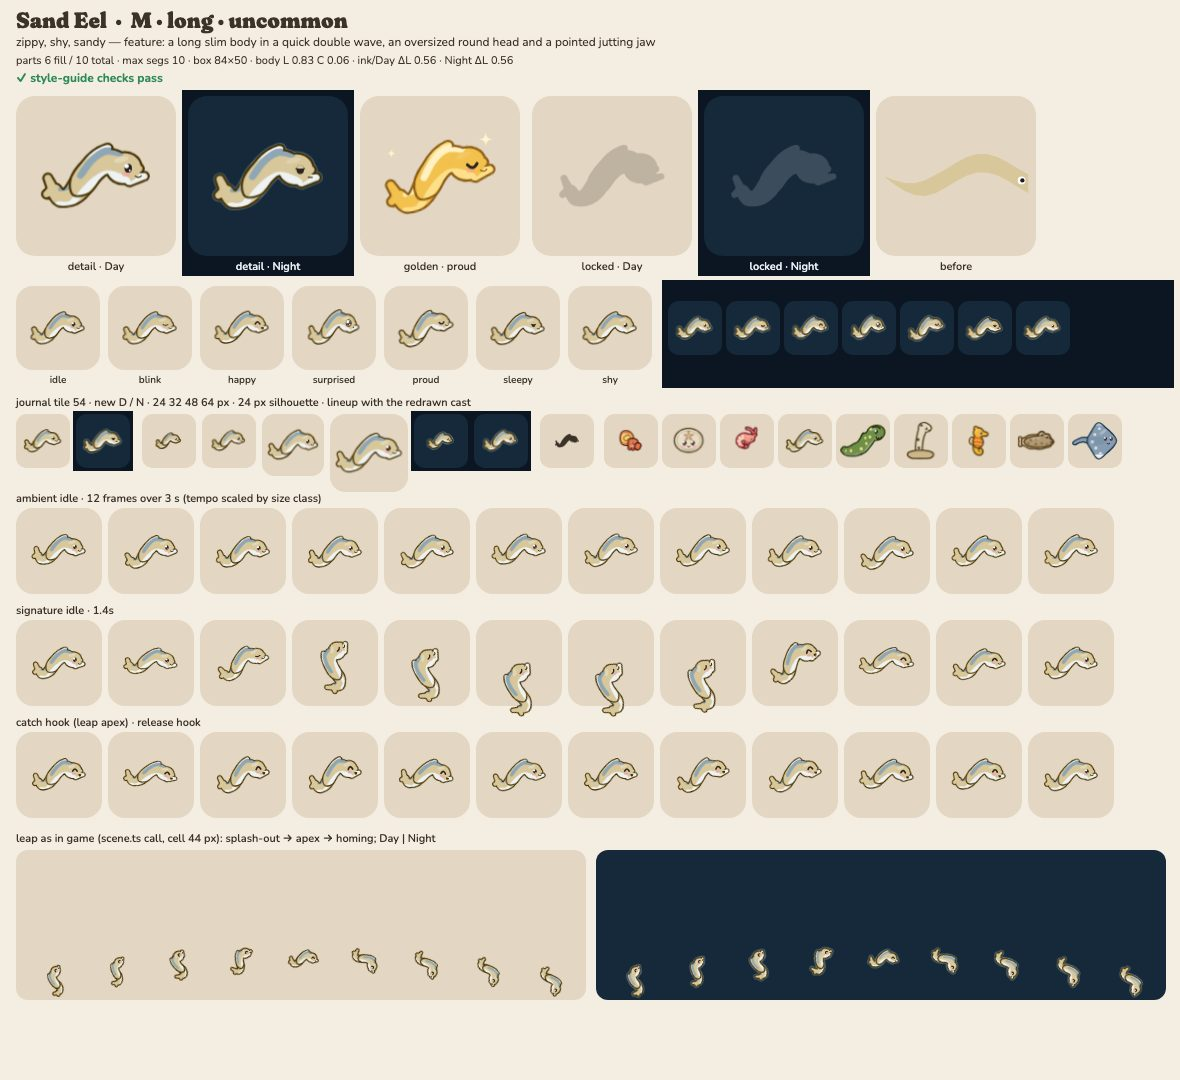
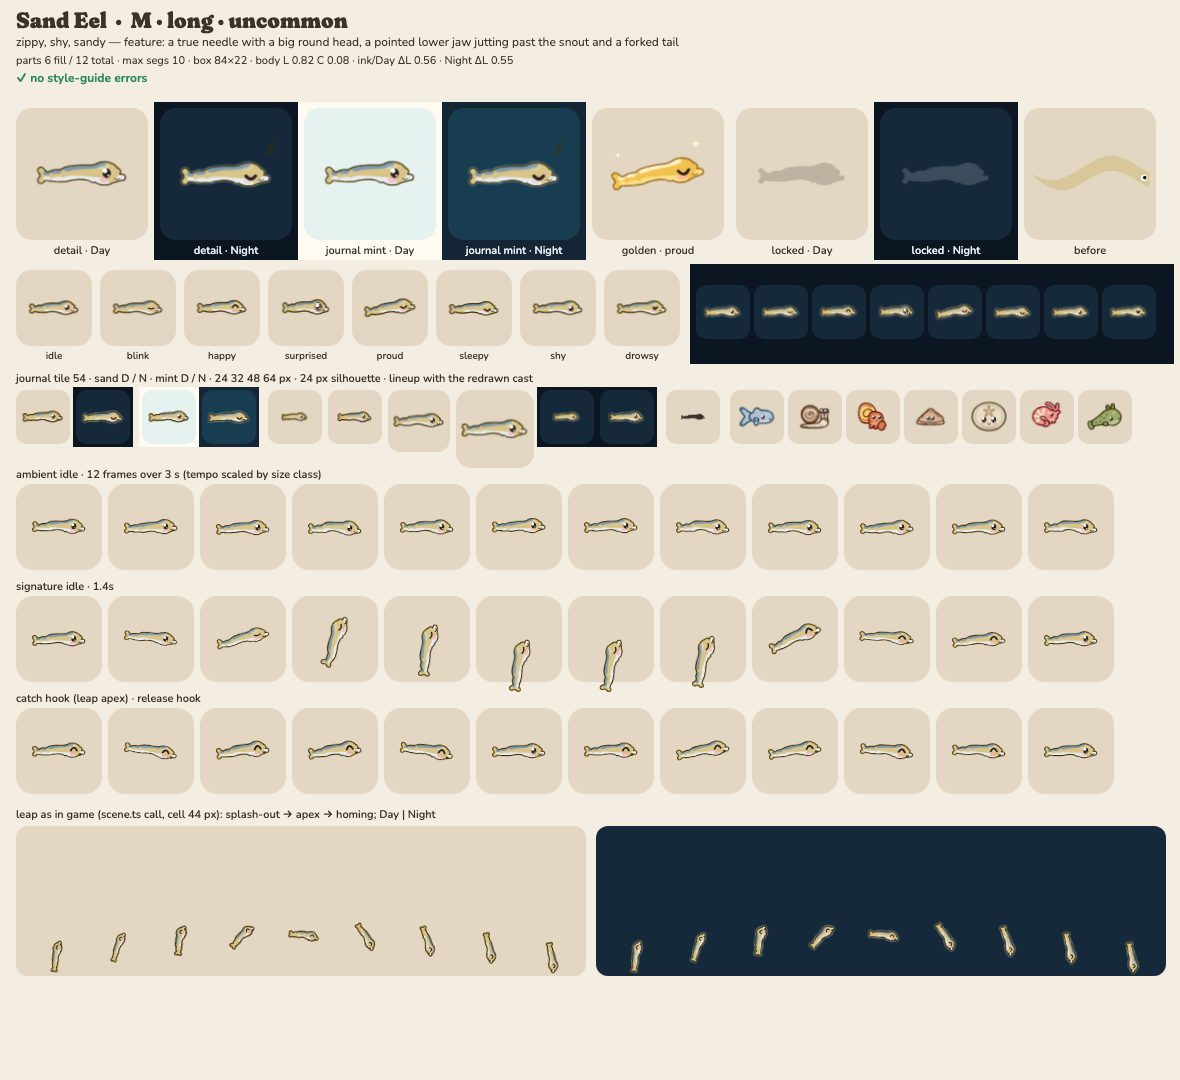
render: sandeel redo — a true needle with a jutting jaw (ADR 0011)
CRITIQUE-1 C. Level 4:1 needle (box 84x22), big round head 30 % of length, lower jaw juts past the snout, tiny fork; sand #D9C489 (C 0.08) over a silver belly #E8ECEF with a steel back stripe. Three seamless segments carry a travelling wave; signature: tail-first dive into the floor and pop back up. Eye 9.4 u (floor 8.9). Lint clean.

diff --git a/src/render/art/species/sandeel.ts b/src/render/art/species/sandeel.ts
@@ -1,64 +1,86 @@
 /**
- * Sand Eel — LONG class (profile). Silhouette: a long slim body in a quick double wave ("~~"),
- * an oversized round head and a pointed, jutting lower jaw, a tiny forked tail (R10: the wavy needle
- * and the jaw). Slimmer and wavier than the moray, horizontal unlike the garden eel.
+ * Sand Eel — LONG class (profile, level). Silhouette: a true needle (≈ 4 : 1) with a big round head
+ * (30 % of the length), a pointed lower jaw that juts past the snout and a tiny forked tail; a low
+ * double wave travels down the body (R10: the needle and the jaw). Silver belly under sand.
  * Personality: zippy, shy, sandy. Signature: dives tail-first into the tile floor and pops back up.
+ * Three seamless segments carry the travelling wave without seams (ADR 0011 Amendment 1).
  */
 import { capsule, defineArt, ellipse, join, tube } from '../kit.ts';
 
-const tail = join(
+const tailTip = join(
   tube([
-    [-10, 4, 8.4],
-    [-19, 14, 7.6],
-    [-28, 16, 6.4],
-    [-34, 9, 5],
+    [-24, 1.5, 4.8],
+    [-31, 2.5, 4],
+    [-36, 1.5, 3.2],
   ]),
-  capsule(-34, 9, 3.8, -38, 0, 2.8),
-  capsule(-34, 9, 3.8, -39, 13, 2.8),
+  capsule(-34, 1.5, 3, -38.5, -3.5, 2.6),
+  capsule(-34, 1.5, 3, -38.5, 6.5, 2.6),
 );
+const tailMid = tube([
+  [-12, 0, 6],
+  [-19, 1.5, 5.4],
+  [-26, 1.5, 4.8],
+]);
 const body = tube([
-  [-12, 6, 8.8],
-  [-3, -6, 9.6],
-  [8, -13, 9.6],
-  [18, -10, 10.4],
+  [-14, 0, 6],
+  [-2, -1.5, 6.4],
+  [8, -1, 7],
+  [14, 0, 8],
 ]);
-// a low dorsal fin riding the first hump
-const dorsal = tube([
-  [-9, -9, 3],
-  [0, -18, 3.6],
-  [10, -24, 3],
-]);
-const head = ellipse(23, -8, 13.5, 12, -10);
-const jaw = capsule(28, 1, 4.8, 39.5, -1.5, 2.6);
-const snout = capsule(28, -10, 5.6, 35, -7.5, 3);
+const head = ellipse(23, -0.5, 13.5, 11);
+const snout = capsule(29, -3.5, 6, 35, -2, 3.2);
+const jaw = capsule(29, 4, 5, 40.4, 3.5, 2.4);
 
 export default defineArt({
   id: 'sandeel',
   klass: 'long',
   size: 'M',
-  feature: 'a long slim body in a quick double wave, an oversized round head and a pointed jutting jaw',
+  feature: 'a true needle with a big round head, a pointed lower jaw jutting past the snout and a forked tail',
   personality: ['zippy', 'shy', 'sandy'],
-  palette: { body: '#D8C79A', accent: '#8FA7B5', belly: '#EEF2F2' },
+  palette: { body: '#D9C489', accent: '#7F9BB0', belly: '#E8ECEF' },
   groups: [
     {
-      id: 'tail',
-      pivot: [-11, 5],
+      id: 'tail2',
+      pivot: [-25, 1.5],
+      seamless: true,
       parts: [
-        { d: tail, role: 'body' },
+        { d: tailTip, role: 'body' },
         {
           d: tube([
-            [-8, -2.5, 2.4],
-            [-18, 6, 2.2],
-            [-28, 9, 1.8],
+            [-24, -2, 2.4],
+            [-34, -1, 2.4],
           ]),
           role: 'accent',
           kind: 'pattern',
         },
         {
           d: tube([
-            [-12, 12, 2.6],
-            [-20, 21, 2.4],
-            [-30, 21, 2],
+            [-24, 5.5, 2.2],
+            [-34, 4.5, 2],
+          ]),
+          role: 'belly',
+          kind: 'pattern',
+        },
+      ],
+    },
+    {
+      id: 'tail1',
+      pivot: [-13, 0],
+      seamless: true,
+      parts: [
+        { d: tailMid, role: 'body' },
+        {
+          d: tube([
+            [-12, -4.4, 2.4],
+            [-26, -2.6, 2.4],
+          ]),
+          role: 'accent',
+          kind: 'pattern',
+        },
+        {
+          d: tube([
+            [-12, 5, 2.4],
+            [-26, 5.4, 2.2],
           ]),
           role: 'belly',
           kind: 'pattern',
@@ -67,28 +89,28 @@ export default defineArt({
     },
     {
       id: 'body',
+      seamless: true,
       parts: [
-        { d: dorsal, role: 'belly' },
         { d: body, role: 'body' },
         { d: jaw, role: 'belly' },
         { d: head, role: 'body' },
         { d: snout, role: 'body' },
         {
           d: tube([
-            [-12, -2, 2.6],
-            [-3, -14, 2.8],
-            [8, -21.5, 3],
-            [20, -20.5, 3],
+            [-14, -4.4, 2],
+            [-2, -6.6, 2.2],
+            [10, -7.6, 2.4],
+            [22, -9.6, 2.4],
           ]),
           role: 'accent',
           kind: 'pattern',
         },
         {
           d: tube([
-            [-12, 14, 2.8],
-            [-1, 2.5, 3],
-            [10, -3, 3.2],
-            [24, 3, 4.4],
+            [-14, 5, 2.6],
+            [-2, 5, 2.8],
+            [10, 6, 3],
+            [24, 9, 4],
           ]),
           role: 'belly',
           kind: 'pattern',
@@ -96,22 +118,21 @@ export default defineArt({
       ],
     },
   ],
-  shine: ellipse(21, -15, 6, 2.4, -14),
+  shine: ellipse(22, -6.5, 6, 2.2, -8),
   face: {
-    eyes: [[26, -8]],
-    eye: 7,
-    zone: [12, -24, 30, 30],
-    mouth: { at: [34, -2], w: 5, shape: 'smile' },
+    eyes: [[25, -1]],
+    eye: 9.4,
+    zone: [12, -23, 30, 38],
+    mouth: { at: [35, 4.5], w: 5, shape: 'smile' },
     sweet: true,
   },
   deviations: {
-    R7: 'long class (R5): the eye sits in the oversized head, the front 30 % of the wavy body, not 34 % back',
+    R7: 'long class (R5): the eye sits in the big head (front 30 % of a 4 : 1 needle), not 34 % back',
   },
   idle: {
     ambient: [
-      { m: 'bob', amp: 2, period: 1.8 },
-      { m: 'wag', g: 'tail', amp: 10, period: 0.7 },
-      { m: 'sway', g: 'body', amp: 2.5, period: 1.4, phase: 0.25 },
+      { m: 'bob', amp: 1.6, period: 1.8 },
+      { m: 'wave', g: ['body', 'tail1', 'tail2'], amp: 4, period: 1.1, lag: 0.12 },
     ],
     signature: {
       dur: 1.4,
@@ -122,8 +143,8 @@ export default defineArt({
           k: [
             [0, 0],
             [0.12, 8],
-            [0.3, -72],
-            [0.62, -72],
+            [0.3, -76],
+            [0.62, -76],
             [0.8, 6],
             [0.9, -3],
             [1, 0],
@@ -135,8 +156,8 @@ export default defineArt({
             [0, 0],
             [0.12, -3],
             [0.3, 4],
-            [0.46, 40],
-            [0.6, 40],
+            [0.46, 42],
+            [0.6, 42],
             [0.76, -8],
             [0.88, 2],
             [1, 0],
@@ -151,6 +172,17 @@ export default defineArt({
             [0.7, 1.14],
             [0.84, 0.9],
             [1, 1],
+          ],
+        },
+        {
+          g: 'tail2',
+          p: 'rot',
+          k: [
+            [0, 0],
+            [0.3, 18],
+            [0.4, -18],
+            [0.5, 12],
+            [0.6, 0],
           ],
         },
       ],
